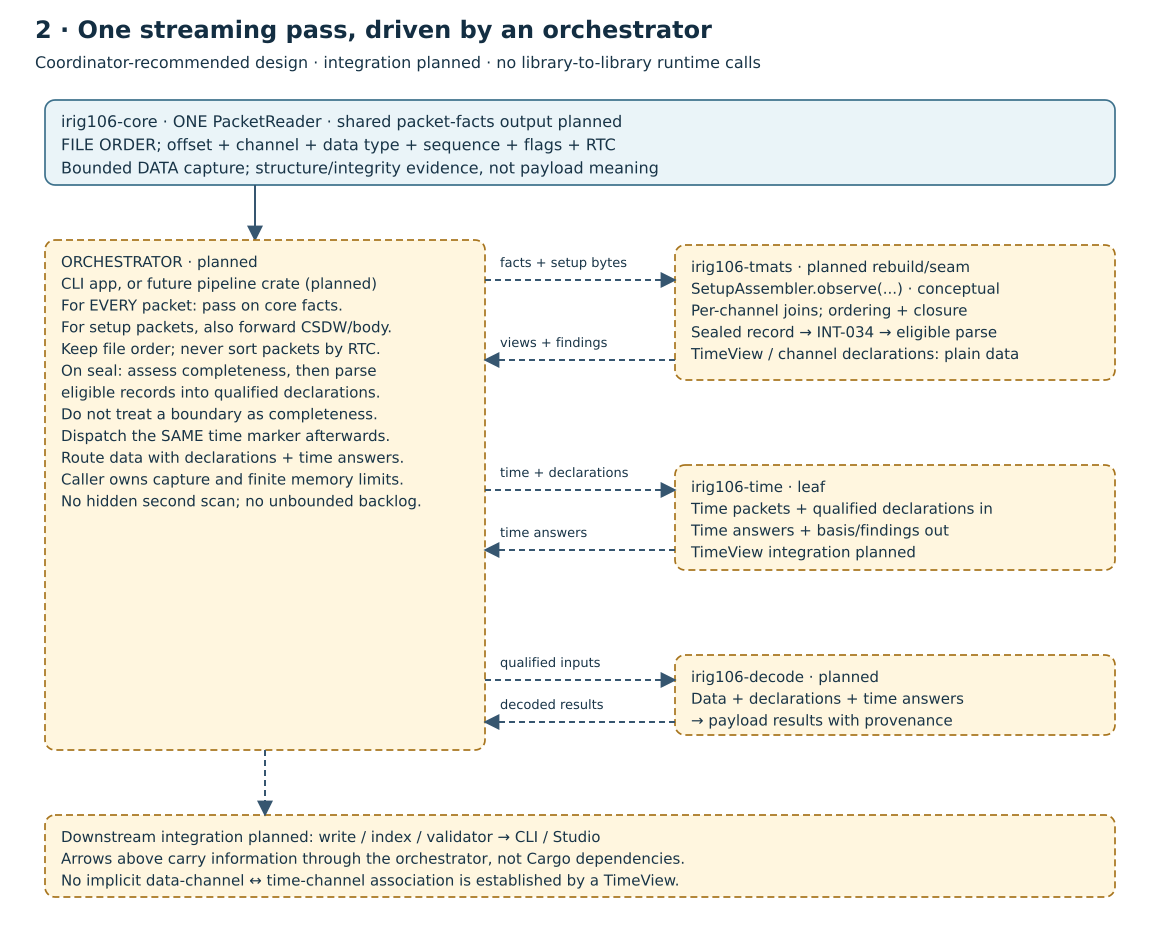
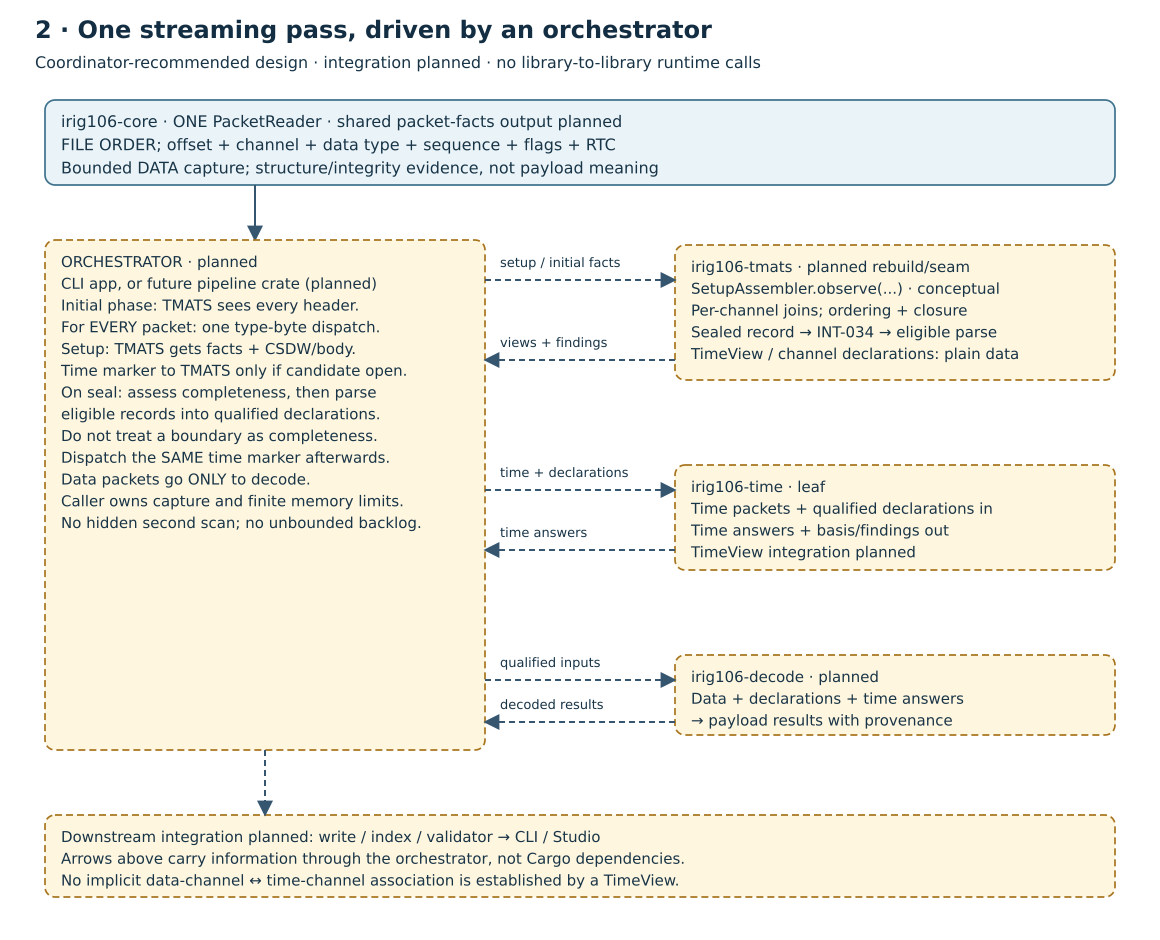
docs: add owner-approved planned performance design

Changed region(s): [[0.031, 0.3085, 0.3724, 0.5862], [0.4345, 0.2777, 0.5276, 0.3085]]

diff --git a/src/architecture/pipeline.md b/src/architecture/pipeline.md
@@ -52,23 +52,25 @@ semantic library call another semantic library to walk the recording.
 
 The **planned orchestrator** lives in a CLI application or a future pipeline
 crate. It drives one `irig106_core::PacketReader` in **file order**, retaining byte
-offsets. It never sorts by RTC before assembly. For each packet it:
+offsets. It never sorts by RTC before assembly. The owner-approved **planned**
+selective dispatch below refines the original all-header forwarding proposal:
 
-1. Passes on core-produced plain packet facts (shared type in `irig106-types`,
-   **planned**): channel, header data type, sequence, flags, offset, RTC, and relevant
-   trust/edition evidence to TMATS's **planned** observation seam. For a Format 1
-   setup packet, it also supplies that fragment's CSDW and body. `SetupAssembler.observe(...)`
-   is conceptual notation here, not a verified callable Rust signature.
-2. Lets TMATS track independent per-channel runs, ordering, and closure. On seal,
-   TMATS assesses completeness separately (INT-034), parses eligible complete
-   records, and returns **planned** bounded `TimeView` / channel declarations as
-   plain data with provenance, qualification, and findings.
-3. Routes time packets and qualified declarations to time. For a closing time
-   marker, observation and setup assessment happen **before** dispatching that
-   **same** packet for time interpretation; the marker is never setup text.
-4. Routes data packets with qualified declarations and time answers to
-   `irig106-decode` (**planned**). Results retain their basis and findings rather
-   than inventing missing metadata or an absolute time.
+1. Classify each packet once from its header data-type byte. Setup packets go
+   to TMATS with core-produced plain `PacketFacts` (**planned**), CSDW and body.
+   TMATS observes every header **only during the initial setup phase**, so it
+   can enforce initial ordering and recognize the first trusted time marker.
+   `SetupAssembler.observe(...)` is conceptual notation, not a released API.
+2. TMATS tracks independent per-channel candidates. An eligible time marker
+   notifies TMATS only while a candidate is open, including a later setup
+   candidate. On seal, INT-034 assesses completeness separately; eligible
+   parsing produces qualified plain declarations and findings (**planned**).
+3. Time packets go to time with the qualified declarations. When a packet also
+   closes setup, the cheap header-only marker notification and setup assessment
+   precede time interpretation of that **same** packet. Its payload is not
+   decoded by TMATS or included in setup text.
+4. Data packets go only to decode, with qualified declarations and time answers
+   (**planned**). After the initial phase, they are not dispatched to TMATS.
+   Missing metadata or time basis remains explicit rather than invented.
 
 Core checks framing and exposes integrity evidence, not TMATS validity, time
 meaning, or complete standard conformance. Its bounded `body_prefix` can be only
@@ -135,6 +137,90 @@ a first observed setup packet, or successful sync recovery. Retain that provenan
 unknown/cropped start or untrusted prefix evidence must not silently become a
 known clean recording start. Record findings and preserve the bytes when
 authoritative automatic adoption is withheld.
+
+## 5. Performance design
+
+**Owner approved, 2026-11-23; implementation planned.** These are design targets,
+not measured throughput, allocation counts, or capabilities of core 0.1.
+
+### One dispatch per packet (planned)
+
+The orchestrator reads the header's data-type byte **once** for a `match` or jump
+table and routes the packet only to the consumer that needs it:
+
+| Packet / phase | Planned route |
+| --- | --- |
+| Data packets (expected to dominate normal recordings) | Decode only, with qualified declarations and time answers |
+| Time packet | Time; additionally a cheap header-only time-marker notification to TMATS **only while a setup candidate is open** |
+| Setup packet | TMATS, with CSDW and body |
+| Initial setup phase | TMATS also observes every header until the first trusted time boundary, including headers needed to report an ordering violation |
+
+The initial ordering check is the explicit exception to selective data dispatch.
+Outside that phase, there is no general per-packet TMATS callback. The header-only
+marker notification is not a second payload consumer or a second packet read.
+Other unsupported packet types retain explicit handling/findings; they are not
+misclassified as supported data. File order, trust and edition checks still apply.
+
+### Small facts and borrowed bodies (planned)
+
+`PacketFacts` is a small **Copy**, header-facts-only value in `irig106-types`,
+with a target size of **about 32 bytes** and no heap storage, passed by value or
+reference. This is a proposed layout budget, not a verified `size_of` or a
+released type. Core produces it; the orchestrator passes it to the selected
+consumer without TMATS depending on core.
+
+Payload slices are **borrowed `&[u8]` from one reader buffer**, with no payload
+copy between libraries on the synchronous data path (**planned**). A borrow may
+not survive reuse or growth of its backing buffer. This does not promise no
+kernel-to-user copy, allocation-free setup assembly, or copy-free owned exports.
+
+### Reuse packet storage: planned core 0.2 API
+
+The data path targets **no per-packet allocation after sufficient buffer capacity
+has been established**. A reusable grow-on-demand buffer is sized from the
+validated header's **Packet Length before reading the body**, subject to the
+caller's explicit maximum. Check lengths, overflow and the cap before reserving
+storage. Growth may allocate when a larger permitted packet first arrives;
+subsequent packets reuse that capacity. Storage follows the largest accepted
+packet's capacity high-water mark, not the recording's byte count. There is no
+whole-file buffering or unchecked allocation from a wire length.
+
+**Current core 0.1 differs:** its
+[reader implementation](https://github.com/TelemetryWorks/irig106-core/blob/3c12bcd33b1ae66cca2d6378f4bfe08f2fc8c9a1/crates/irig106-core/src/reader.rs)
+creates an owned `Vec` capture per packet and reserves the requested DATA prefix
+(nonzero capture can allocate). Its bounded `body_prefix` is not the planned
+reusable borrowed-payload API. No core code or public API changes are made here.
+
+### Ordered reader, bounded worker fan-out (planned)
+
+Keep **one ordered reader**: setup closure, initial ordering and time-reference
+updates stay on the ordered path. Fan out per **channel** to workers through
+bounded channels, preserving order within each channel. Do not let worker
+completion reorder the observations used for setup and time context.
+
+A **fixed-size buffer pool** supports ownership transfer: the reader fills a
+pool buffer, moves ownership to a worker, and receives the buffer back after use.
+A worker borrows payload slices from the buffer it owns; a borrowed slice alone
+cannot outlive that buffer. This extends the synchronous one-buffer design
+without copying payloads between libraries. When the pool/queues are full, use
+backpressure rather than allocating more buffers. Pool payload storage is bounded
+by **pool size × maximum packet capacity**, plus fixed metadata and separately
+bounded queue, assembler, and worker state; this is not a whole-process RSS claim.
+
+Time correlation stays on the ordered path. Time-reference updates are expected
+to be cheap and around **1 Hz per time channel**, not necessarily once per second
+for the whole recording. That is a design expectation, not a measured CPU cost or
+an enforced rate cap; data-time answer queries can be much more frequent.
+
+### Measure before claiming a speedup (planned)
+
+Add reproducible **throughput** and **allocations-per-packet** benchmarks and a
+CI regression gate, following the existing RSS-regression approach. Cover steady
+state separately from first-packet/growth allocations, varying packet sizes,
+setup/time transitions, channel count and pool backpressure. Report hardware,
+fixtures, capture/validation settings, capacity limits and allocation accounting.
+The current core RSS test does not prove any of these new targets. No throughput
+result, zero-allocation measurement, or performance CI gate is claimed here.
 
 ## Sources and authority
 
